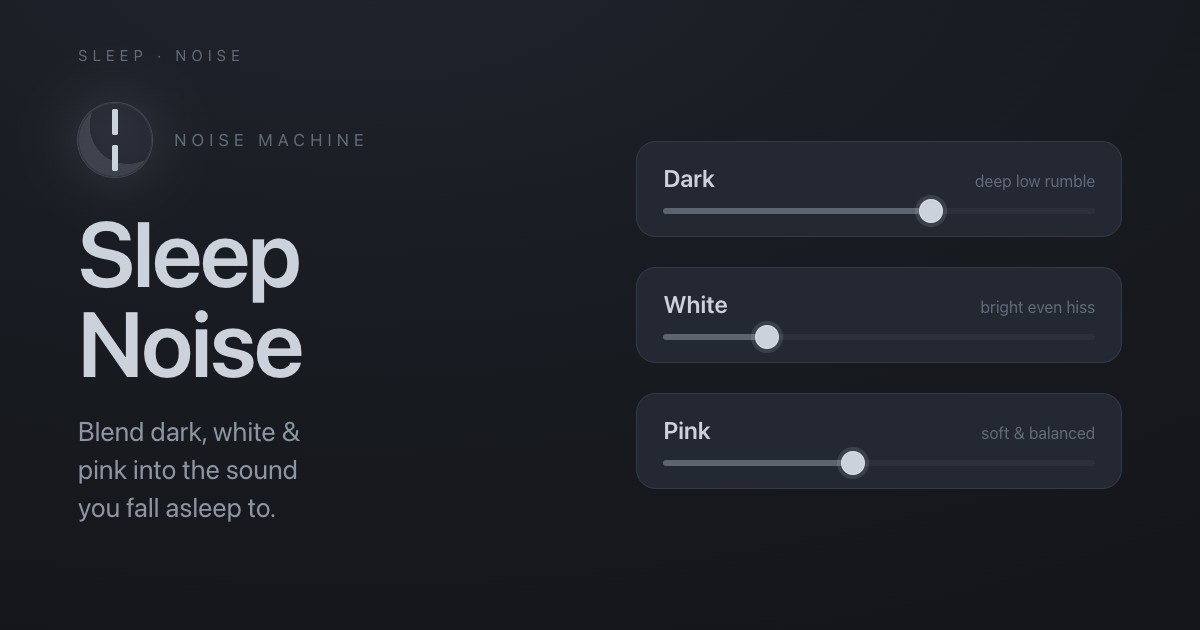
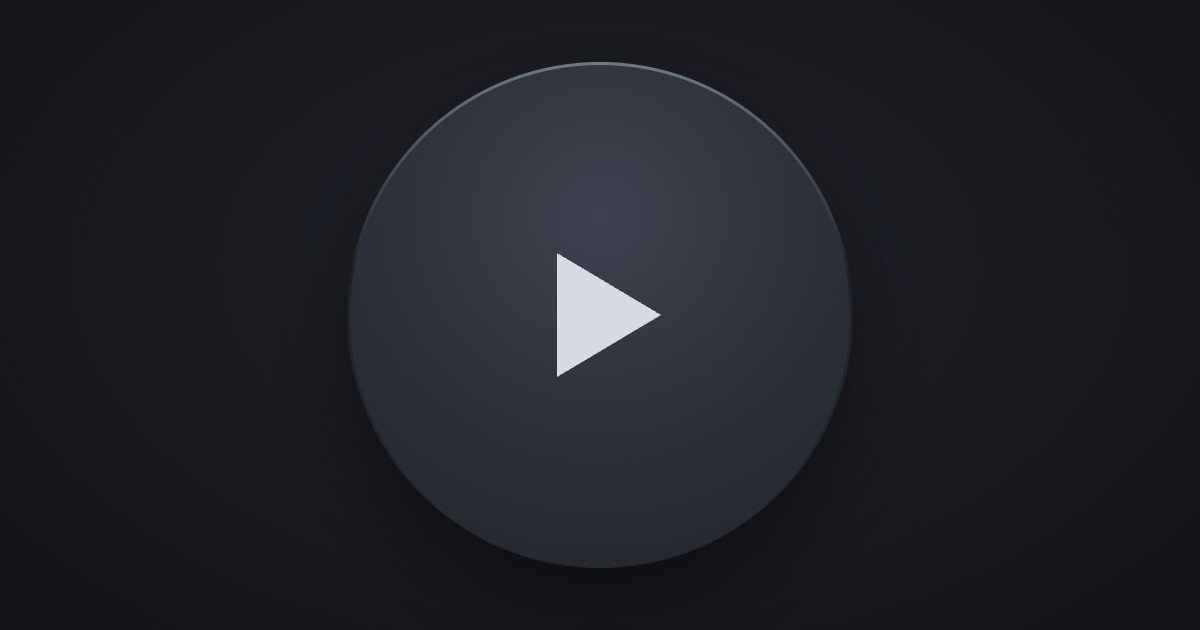
Sleep Noise: drop em dash from blurb, restyle tile + OG art
- Gallery blurb: remove em dash (style rule — blurbs use commas/periods).
- Thumbnail (public/thumbs/sleep-noise.svg) and OG image
  (public/og/sleep-noise.jpg) redrawn as the app's glossy play disc —
  a bright-rimmed slate circle with a light play triangle on the dark
  cool-gray ground.

diff --git a/src/apps.js b/src/apps.js
@@ -11,7 +11,7 @@ export const apps = [
   // Flow Field (app-01) and Particle Swarm (app-02) are intentionally unlisted —
   // still reachable by direct URL, just not shown in the gallery grid.
   { slug: 'bloon-boon',             title: 'Bloon Boon',             blurb: 'A shader-bloon juggling game. Tap and flick glossy 3D bloons to keep them aloft, and each color sings its own sound.', entry: 'index.html' },
-  { slug: 'sleep-noise',            title: 'Sleep Noise',            blurb: 'A calm noise machine for sleep — blend dark, white, and pink noise, each with its own level and tone.', entry: 'index.html' },
+  { slug: 'sleep-noise',            title: 'Sleep Noise',            blurb: 'A calm noise machine for sleep. Blend dark, white, and pink noise, each with its own level and tone.', entry: 'index.html' },
   { slug: 'particle-system',        title: 'Particle System',        blurb: 'Color-shifting orbs that breathe in and out across an HSB field.',           entry: 'index.html' },
   { slug: 'shader-particle-system', title: 'Shader Particle System', blurb: 'The particle system reborn on the GPU as soft additive blobs in a fragment shader.', entry: 'index.html' },
   { slug: 'ambient-lumina',         title: 'Ambient Lumina',         blurb: 'Ten lumina that sing, with pitch from color, pan from motion, and contrast where they meet.', entry: 'index.html' },